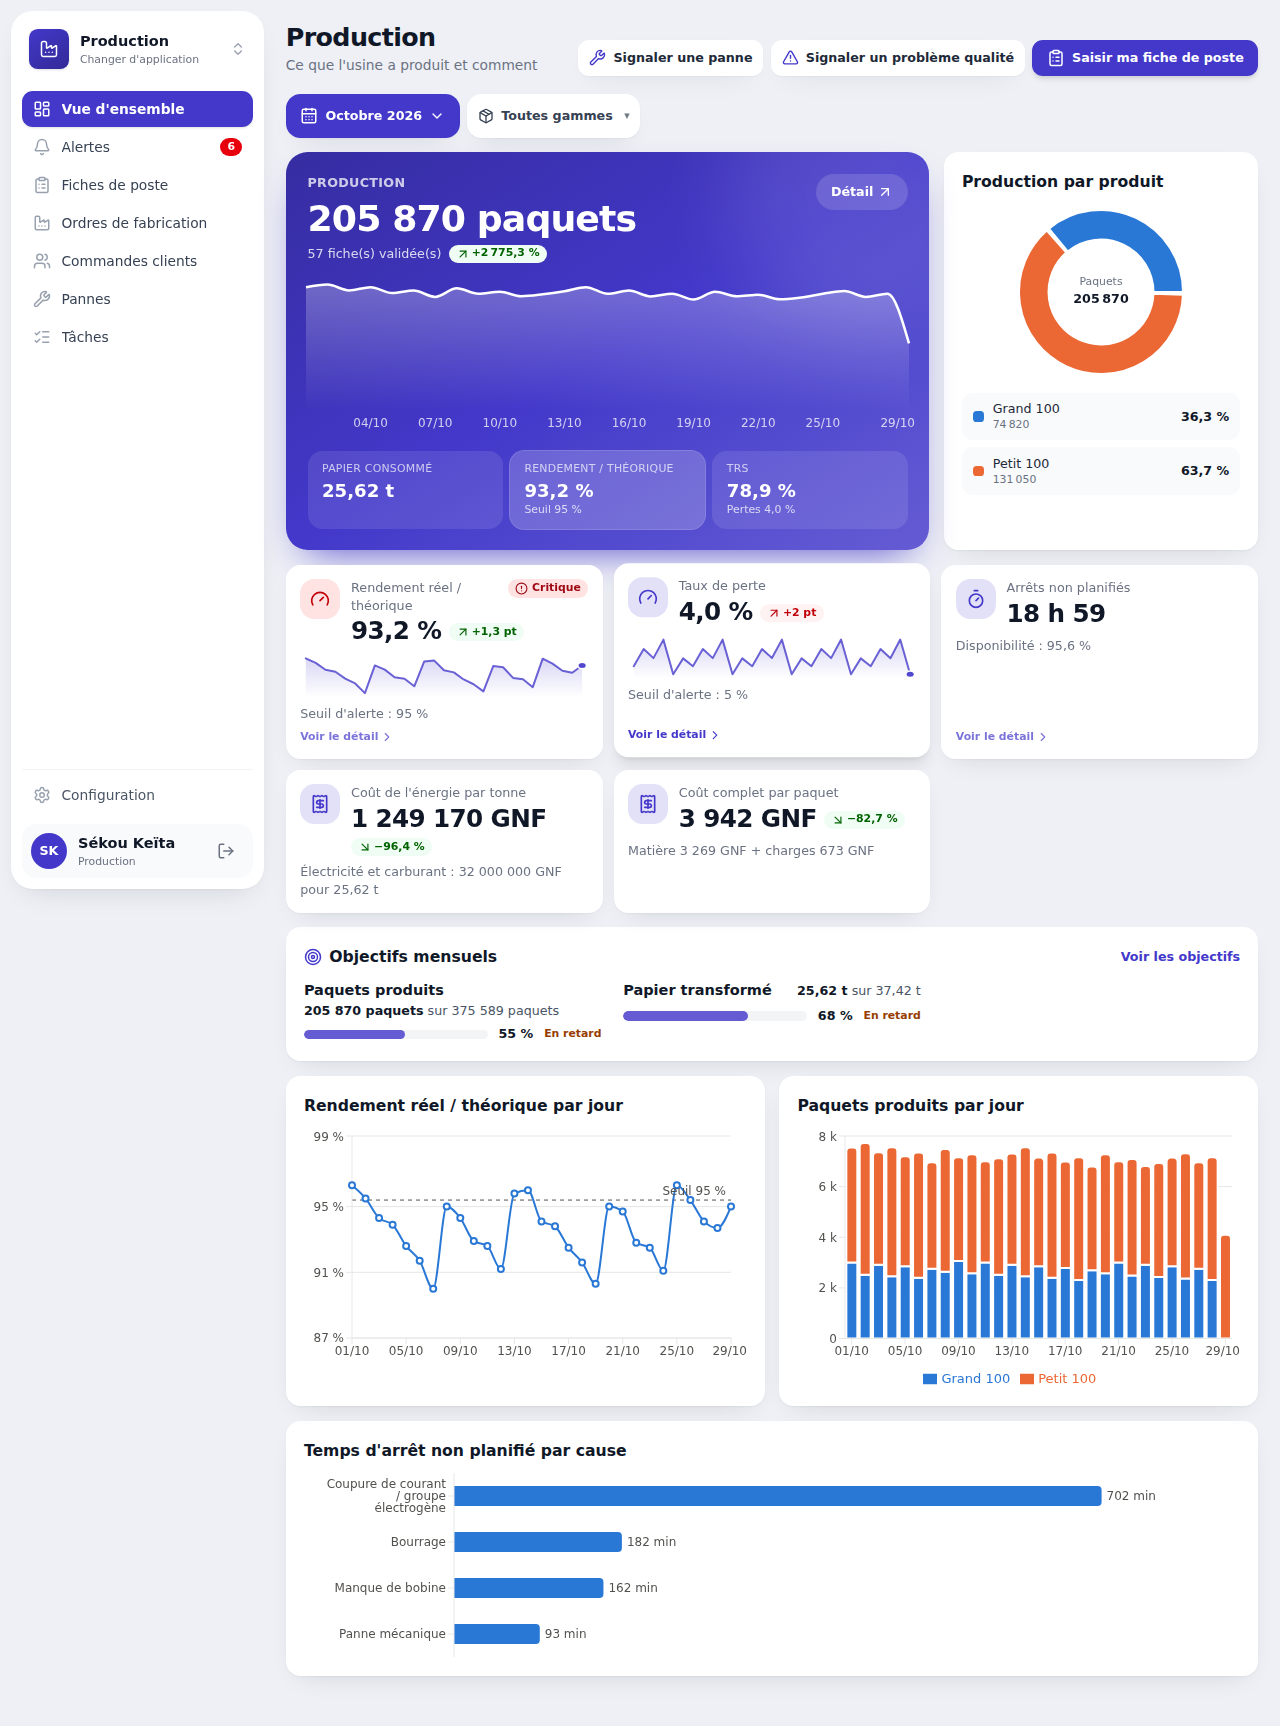
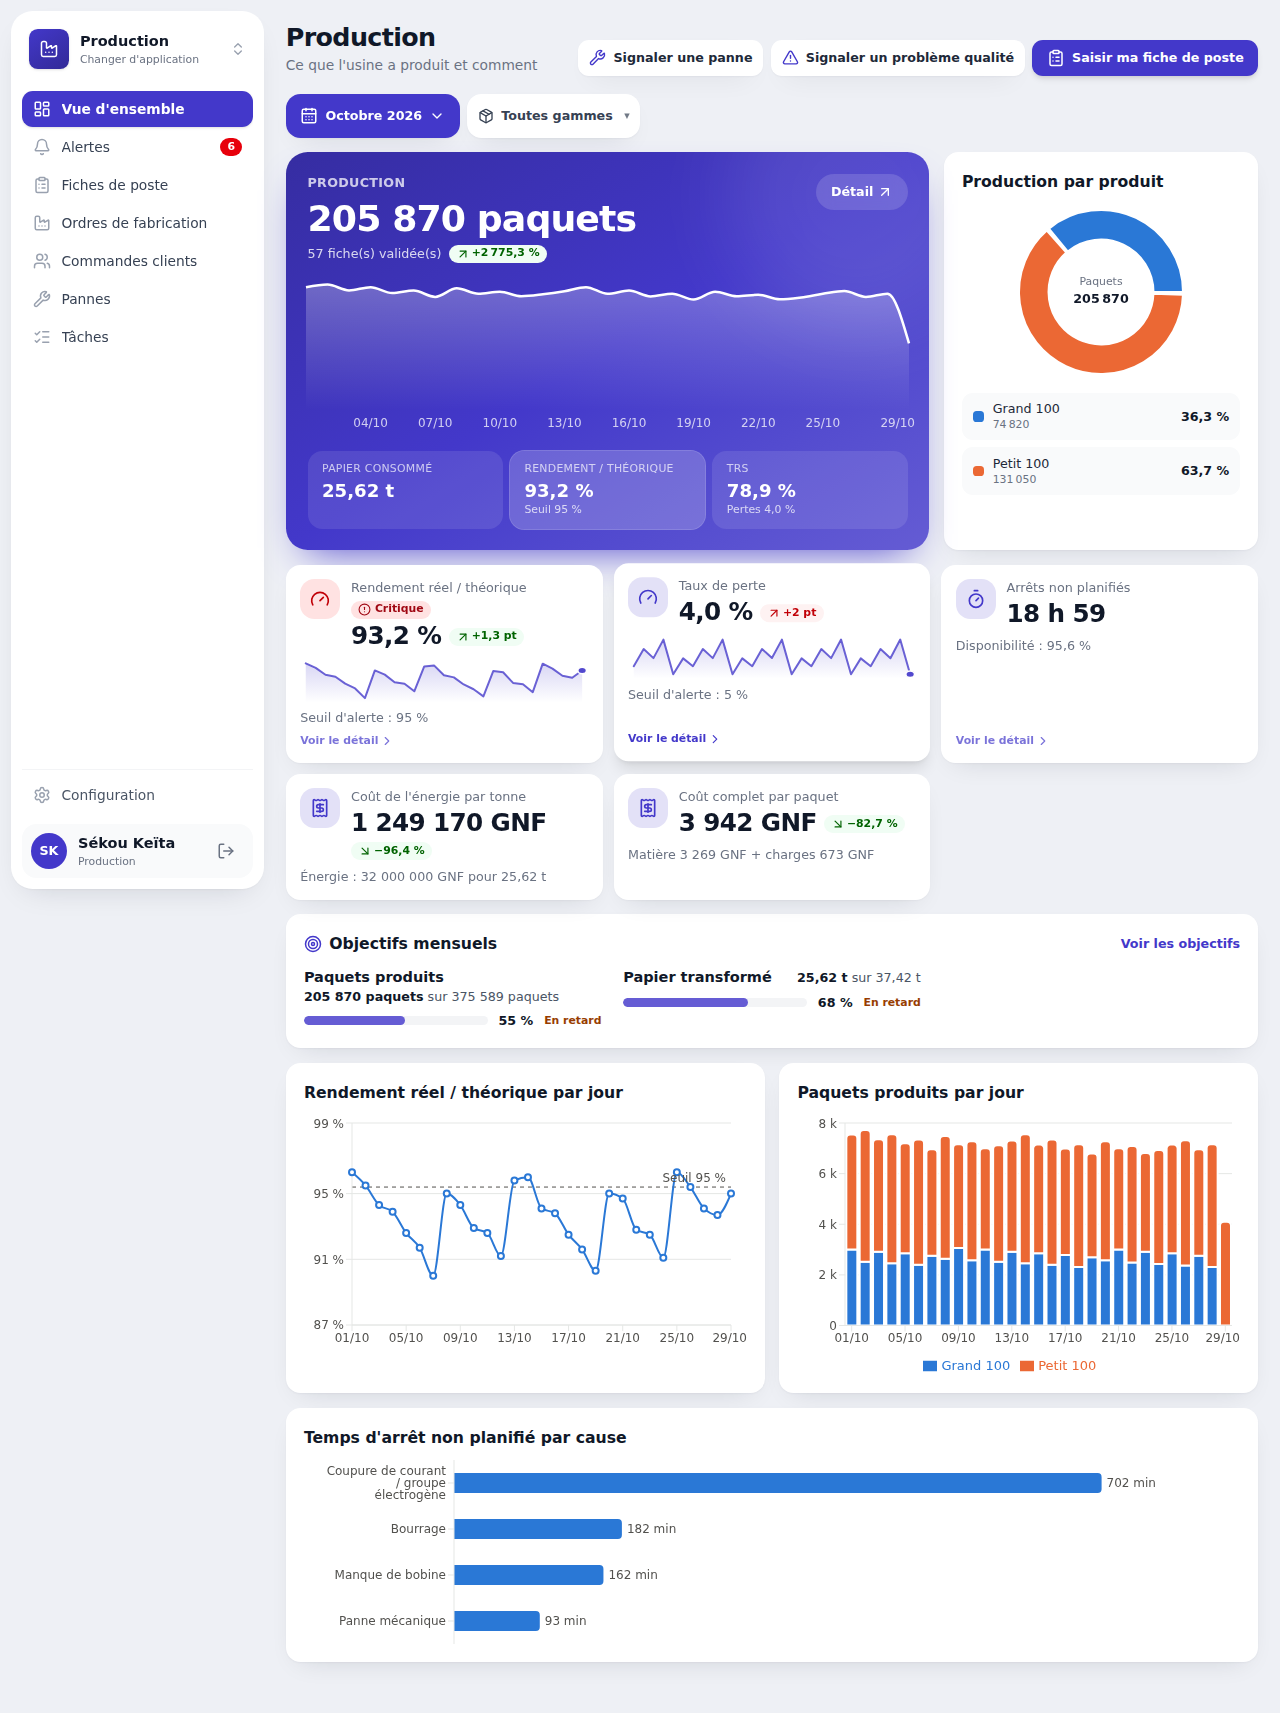
Tableau de bord du PDG : 8 chiffres clés rangés par question (argent, coût du paquet, usine, clients)
- résultat d'exploitation, coût complet par paquet comparé au prix moyen de vente, énergie par tonne, OTIF avec délai moyen ;
- encaissements avec impayés échus, rendement avec pertes, couverture matière, ruptures chez les points de vente ;
- objectifs Direction : résultat, coût complet par paquet, OTIF ; seuil OTIF lu dans les paramètres ;
- tuiles : le titre et le badge (« À surveiller », « Critique ») passent à la ligne au lieu d'être coupés.

Claude-Session: https://claude.ai/code/session_01P9Spb9FtGj4cbry1x5gze5

diff --git a/src/components/direction/sections.tsx b/src/components/direction/sections.tsx
@@ -5,6 +5,8 @@ import { ecartPoints, ecartRelatif, Indicateur, jourCourt } from "@/components/u
 import type { SyntheseDirection } from "@/lib/direction/synthese";
 import { formaterPoids, formaterStockProduitFini, kg, type Paquets } from "@/lib/metier/unites";
 import { bfrGnf } from "@/lib/metier/finance";
+import { margeCompleteParPaquet, type IndicateursLivraison } from "@/lib/metier/performance";
+import type { CoutsUsine } from "@/lib/performance/charger";
 import { minutes, pct } from "@/lib/production/affichage";
 import { gnf, nombre } from "@/lib/stocks/libelles";
 
@@ -24,38 +26,130 @@ function Section({ titre, lien, children }: { titre: string; lien?: string; chil
   );
 }
 
+/** Un groupe de deux chiffres clés, introduit par la question à laquelle il répond. */
+function Question({ titre, children }: { titre: string; children: ReactNode }) {
+  return (
+    <section className="flex flex-col gap-2 break-inside-avoid">
+      <h2 className="text-[0.95rem] font-bold text-gray-800">{titre}</h2>
+      <div className="grid flex-1 gap-3 sm:grid-cols-2">{children}</div>
+    </section>
+  );
+}
+
 /**
- * Les 8 chiffres clés du tableau de bord (ce que le CA, la marge, la trésorerie et la production du haut ne disent pas) :
- * argent qui rentre, retards de paiement, commandes, usine, stock, terrain. Chaque tuile ouvre l'application concernée.
+ * Les 8 chiffres clés du PDG, rangés par question (ce que le CA, la marge, la trésorerie et la production du haut ne disent pas) :
+ * gagne-t-on de l'argent, combien coûte un paquet, l'usine tourne-t-elle bien, les clients sont-ils servis.
+ * Coûts de l'usine et livraisons : toute l'usine (ils ne se découpent ni par gamme ni par commercial).
  */
-export function IndicateursEssentiels({ s }: { s: SyntheseDirection }) {
+export function IndicateursEssentiels({
+  s,
+  couts,
+  coutsPrec,
+  livraison,
+  livraisonPrec,
+  filtre,
+}: {
+  s: SyntheseDirection;
+  couts: CoutsUsine;
+  coutsPrec: CoutsUsine;
+  livraison: IndicateursLivraison;
+  livraisonPrec: IndicateursLivraison;
+  /** Un filtre gamme ou commercial est actif : le résultat (marge filtrée − charges de toute l'usine) n'aurait pas de sens. */
+  filtre: boolean;
+}) {
   const v = s.ventes;
   const vp = s.ventesPrec;
   const p = s.production;
   const pp = s.productionPrec;
-  const pf = s.stock.produitsFinis.reduce((t, x) => t + x.paquets, 0);
+  const resultat = filtre ? null : s.marge.margeGnf - couts.chargesGnf;
+  const resultatPrec = filtre ? null : s.margePrec.margeGnf - coutsPrec.chargesGnf;
+  const coutPaquet = couts.parPaquet?.totalGnf ?? null;
+  const margePaquet = margeCompleteParPaquet(v.prixMoyenPaquetGnf, coutPaquet);
+  const toutes = filtre ? " · toute l'usine" : "";
   return (
-    <div className="mb-4 grid gap-3 sm:grid-cols-2 lg:grid-cols-4">
-      <Indicateur libelle="Encaissements" valeur={gnf(v.encaisseGnf)} variation={{ ecart: ecartRelatif(v.encaisseGnf, vp.encaisseGnf) }} lien="/ventes/encaissements" />
-      <Indicateur libelle="Impayés (échus)" valeur={gnf(v.echuGnf)} detail={`Créances totales : ${gnf(v.creancesGnf)}`} ton={v.echuGnf > 0 ? "alerte" : "normal"} lien="/ventes/impayes" />
-      <Indicateur libelle="Commandes" valeur={nombre(v.nbCommandes)} variation={{ ecart: ecartRelatif(v.nbCommandes, vp.nbCommandes) }} detail={`${nombre(v.paquets)} paquets vendus`} lien="/ventes/commandes" />
-      <Indicateur libelle="Produits finis en stock" valeur={`${nombre(pf)} paquets`} lien="/magasin/articles" />
-      <Indicateur
-        libelle="Rendement réel / théorique"
-        valeur={pct(p.ratioRendement)}
-        variation={{ ecart: ecartPoints(p.ratioRendement, pp.ratioRendement), unite: "points" }}
-        ton={p.ratioRendement !== null && p.ratioRendement < s.seuils.rendementMin ? "danger" : "normal"}
-        lien="/production"
-      />
-      <Indicateur libelle="Pertes" valeur={pct(p.tauxPerte)} variation={{ ecart: ecartPoints(p.tauxPerte, pp.tauxPerte), unite: "points", hausseBonne: false }} ton={(p.tauxPerte ?? 0) > s.seuils.tauxPerteMax ? "danger" : "normal"} lien="/production" />
-      <Indicateur
-        libelle="Matière première"
-        valeur={s.stock.couvertureMpJours === null ? formaterPoids(kg(s.stock.kgMp)) : `${nombre(s.stock.couvertureMpJours, 0)} jours`}
-        detail={`${formaterPoids(kg(s.stock.kgMp))} en stock · ${formaterPoids(kg(s.stock.kgTransit))} en route`}
-        ton={s.stock.couvertureMpJours !== null && s.stock.couvertureMpJours < s.seuils.couvertureJours ? "alerte" : "normal"}
-        lien="/magasin"
-      />
-      <Indicateur libelle="Ruptures chez les points de vente" valeur={pct(s.distribution.tauxRupture)} variation={{ ecart: ecartPoints(s.distribution.tauxRupture, s.distributionPrec.tauxRupture), unite: "points", hausseBonne: false }} detail={`${nombre(s.distribution.pvaActifs)} points de vente`} ton={(s.distribution.tauxRupture ?? 0) > s.seuils.tauxRupture ? "alerte" : "normal"} lien="/commercial" />
+    <div className="mb-4 grid gap-4 lg:grid-cols-2">
+      <Question titre="Gagne-t-on de l'argent ?">
+        <Indicateur
+          libelle="Résultat d'exploitation"
+          valeur={resultat === null ? "—" : gnf(resultat)}
+          variation={{ ecart: ecartRelatif(resultat, resultatPrec) }}
+          detail={filtre ? "Non découpé par gamme ni par commercial" : `Marge ${gnf(s.marge.margeGnf)} − charges ${gnf(couts.chargesGnf)}`}
+          ton={resultat !== null && resultat < 0 ? "alerte" : "normal"}
+          lien="/finance/resultat"
+        />
+        <Indicateur
+          libelle="Encaissements"
+          valeur={gnf(v.encaisseGnf)}
+          variation={{ ecart: ecartRelatif(v.encaisseGnf, vp.encaisseGnf) }}
+          detail={v.echuGnf > 0 ? `Impayés échus : ${gnf(v.echuGnf)} (créances ${gnf(v.creancesGnf)})` : `Aucun impayé échu · créances ${gnf(v.creancesGnf)}`}
+          ton={v.echuGnf > 0 ? "alerte" : "normal"}
+          lien="/ventes/encaissements"
+        />
+      </Question>
+      <Question titre="Combien coûte un paquet ?">
+        <Indicateur
+          libelle="Coût complet par paquet"
+          valeur={coutPaquet === null ? "—" : gnf(coutPaquet)}
+          variation={{ ecart: ecartRelatif(coutPaquet, coutsPrec.parPaquet?.totalGnf ?? null), hausseBonne: false }}
+          detail={
+            margePaquet === null
+              ? coutPaquet === null
+                ? "Pas de production validée sur la période"
+                : "Pas de vente sur la période"
+              : `Vendu ${gnf(v.prixMoyenPaquetGnf)} : ${margePaquet >= 0 ? "gagne" : "perd"} ${gnf(Math.abs(margePaquet))} par paquet${toutes}`
+          }
+          ton={margePaquet !== null && margePaquet < 0 ? "danger" : "normal"}
+          lien="/production"
+        />
+        <Indicateur
+          libelle="Coût de l'énergie par tonne"
+          valeur={couts.energieParTonne === null ? "—" : gnf(couts.energieParTonne)}
+          variation={{ ecart: ecartRelatif(couts.energieParTonne, coutsPrec.energieParTonne), hausseBonne: false }}
+          detail={couts.energieParTonne === null ? "Pas de papier consommé sur la période" : `Énergie ${gnf(couts.energieGnf)} pour ${formaterPoids(kg(couts.papierKg))}`}
+          lien="/production"
+        />
+      </Question>
+      <Question titre="L'usine tourne-t-elle bien ?">
+        <Indicateur
+          libelle="Rendement réel / théorique"
+          valeur={pct(p.ratioRendement)}
+          variation={{ ecart: ecartPoints(p.ratioRendement, pp.ratioRendement), unite: "points" }}
+          detail={`Pertes ${pct(p.tauxPerte)} · ${nombre(p.paquetsBons)} paquets produits`}
+          ton={
+            (p.ratioRendement !== null && p.ratioRendement < s.seuils.rendementMin) || (p.tauxPerte ?? 0) > s.seuils.tauxPerteMax ? "danger" : "normal"
+          }
+          lien="/production"
+        />
+        <Indicateur
+          libelle="Matière première"
+          valeur={s.stock.couvertureMpJours === null ? formaterPoids(kg(s.stock.kgMp)) : `${nombre(s.stock.couvertureMpJours, 0)} jours`}
+          detail={`${formaterPoids(kg(s.stock.kgMp))} en stock · ${formaterPoids(kg(s.stock.kgTransit))} en route`}
+          ton={s.stock.couvertureMpJours !== null && s.stock.couvertureMpJours < s.seuils.couvertureJours ? "alerte" : "normal"}
+          lien="/magasin"
+        />
+      </Question>
+      <Question titre="Les clients sont-ils servis ?">
+        <Indicateur
+          libelle="Livrées à temps et complètes"
+          valeur={pct(livraison.otif)}
+          variation={{ ecart: ecartPoints(livraison.otif, livraisonPrec.otif), unite: "points" }}
+          detail={
+            livraison.commandes
+              ? `${nombre(livraison.otifOk)} sur ${nombre(livraison.commandes)} commande(s)${livraison.delaiMoyenJours === null ? "" : ` · délai moyen ${nombre(livraison.delaiMoyenJours, 1)} j`}${toutes}`
+              : "Aucune commande arrivée à échéance"
+          }
+          ton={livraison.otif !== null && livraison.otif < s.seuils.otifMin ? "alerte" : "normal"}
+          lien="/logistique"
+        />
+        <Indicateur
+          libelle="Ruptures chez les points de vente"
+          valeur={pct(s.distribution.tauxRupture)}
+          variation={{ ecart: ecartPoints(s.distribution.tauxRupture, s.distributionPrec.tauxRupture), unite: "points", hausseBonne: false }}
+          detail={`${nombre(s.distribution.pvaActifs)} points de vente`}
+          ton={(s.distribution.tauxRupture ?? 0) > s.seuils.tauxRupture ? "alerte" : "normal"}
+          lien="/commercial"
+        />
+      </Question>
     </div>
   );
 }

diff --git a/src/app/(app)/direction/page.tsx b/src/app/(app)/direction/page.tsx
@@ -9,6 +9,7 @@ import { BoutonImprimer } from "@/components/ui/bouton-imprimer";
 import { CarteHero } from "@/components/ui/carte-hero";
 import { ecartRelatif, PastilleVariation } from "@/components/ui/indicateur";
 import { chargerSynthese } from "@/lib/direction/synthese";
+import { chargerCoutsUsine, chargerIndicateursLivraison } from "@/lib/performance/charger";
 import { chargerOptionsFiltres, decrireFiltres } from "@/lib/filtres/options";
 import { aujourdhui } from "@/lib/formulaires/dates";
 import { lireFiltresAnalyse, lirePeriode } from "@/lib/formulaires/filtres-analyse";
@@ -18,14 +19,22 @@ import { gnf } from "@/lib/stocks/libelles";
 export const metadata: Metadata = { title: "Tableau de bord" };
 
 /**
- * Tableau de bord de la Direction : l'essentiel de l'usine sur un écran (chiffre d'affaires, 8 chiffres clés,
- * objectifs). Le détail est dans chaque application (liens des tuiles) et dans le rapport de la semaine.
+ * Tableau de bord de la Direction : l'essentiel de l'usine sur un écran (chiffre d'affaires, 8 chiffres clés rangés
+ * par question : argent, coût du paquet, usine, clients ; objectifs). Le détail est dans chaque application (liens des tuiles) et dans le rapport de la semaine.
  */
 export default async function TableauDeBordDirection({ searchParams }: PageProps<"/direction">) {
   const sp = await searchParams;
   const periode = lirePeriode(sp, aujourdhui());
   const filtres = lireFiltresAnalyse(sp);
-  const [s, options] = await Promise.all([chargerSynthese(periode, filtres), chargerOptionsFiltres()]);
+  const [s, options, couts, coutsPrec, livraison, livraisonPrec] = await Promise.all([
+    chargerSynthese(periode, filtres),
+    chargerOptionsFiltres(),
+    chargerCoutsUsine(periode.du, periode.au),
+    chargerCoutsUsine(periode.precedente.du, periode.precedente.au),
+    chargerIndicateursLivraison(periode.du, periode.au),
+    chargerIndicateursLivraison(periode.precedente.du, periode.precedente.au),
+  ]);
+  const filtre = !!(filtres.produit || filtres.commercial);
   const filtresTexte = decrireFiltres(filtres, options);
 
   return (
@@ -64,18 +73,21 @@ export default async function TableauDeBordDirection({ searchParams }: PageProps
           <GraphiqueAnneau donnees={s.ventes.parProduit.map((p) => ({ libelle: p.libelle, valeur: p.caHtGnf }))} format="gnf" libelleTotal="CA HT" />
         </Carte>
       </div>
-      <IndicateursEssentiels s={s} />
+      <IndicateursEssentiels s={s} couts={couts} coutsPrec={coutsPrec} livraison={livraison} livraisonPrec={livraisonPrec} filtre={filtre} />
       <CarteObjectifs
         espace="direction"
         du={periode.du}
         au={periode.au}
-        filtre={!!(filtres.produit || filtres.commercial)}
+        filtre={filtre}
         reels={{
           ca_ttc: s.ventes.caTtcGnf,
           paquets_produits: s.production.paquetsBons,
           papier_kg: s.production.tonnesConsommees * 1000,
           marge_brute: s.marge.margeGnf,
           encaissements: s.ventes.encaisseGnf,
+          resultat: filtre ? null : s.marge.margeGnf - couts.chargesGnf,
+          cout_complet_paquet: couts.parPaquet?.totalGnf ?? null,
+          otif: livraison.otif,
         }}
       />
     </>

diff --git a/src/lib/direction/synthese.ts b/src/lib/direction/synthese.ts
@@ -29,7 +29,7 @@ export interface SyntheseDirection {
   finance: SituationFinanciere;
   rendementParJour: Map<string, number | null>;
   /** Seuils d'alerte réglés par les services (paramètres). */
-  seuils: { rendementMin: number; tauxPerteMax: number; couvertureJours: number; tauxRupture: number; impayeJours: number; impayeCritiqueJours: number; livraisonJours: number };
+  seuils: { rendementMin: number; tauxPerteMax: number; couvertureJours: number; tauxRupture: number; impayeJours: number; impayeCritiqueJours: number; livraisonJours: number; otifMin: number };
 }
 
 /**
@@ -39,7 +39,7 @@ export interface SyntheseDirection {
  */
 export async function chargerSynthese(p: Periode, filtres: FiltresAnalyse = SANS_FILTRE): Promise<SyntheseDirection> {
   const [seuilsLus, production] = await Promise.all([
-    lireSeuils({ alerte_impaye_jours: 30, alerte_impaye_critique_jours: 60, alerte_taux_rupture: 0.15, alerte_livraison_jours: 2, stock_jours_couverture_alerte: 15 }),
+    lireSeuils({ alerte_impaye_jours: 30, alerte_impaye_critique_jours: 60, alerte_taux_rupture: 0.15, alerte_livraison_jours: 2, stock_jours_couverture_alerte: 15, alerte_otif_min: 0.9 }),
     seuilsProduction(),
   ]);
   const seuils = {
@@ -50,6 +50,7 @@ export async function chargerSynthese(p: Periode, filtres: FiltresAnalyse = SANS
     impayeJours: seuilsLus.alerte_impaye_jours,
     impayeCritiqueJours: seuilsLus.alerte_impaye_critique_jours,
     livraisonJours: seuilsLus.alerte_livraison_jours,
+    otifMin: seuilsLus.alerte_otif_min,
   };
   const supabase = await clientServeur();
   const ventesP = chargerIndicateursVentes(p.du, p.au, p.nbJours, filtres);

diff --git a/src/lib/metier/performance.test.ts b/src/lib/metier/performance.test.ts
@@ -1,5 +1,5 @@
 import { describe, expect, it } from "vitest";
-import { coutCompletParPaquet, coutEnergieParTonne, indicateursLivraison } from "./performance";
+import { coutCompletParPaquet, coutEnergieParTonne, indicateursLivraison, margeCompleteParPaquet } from "./performance";
 
 describe("coutEnergieParTonne", () => {
   it("rapporte l'énergie aux tonnes de papier consommées", () => {
@@ -44,5 +44,16 @@ describe("indicateursLivraison (OTIF)", () => {
 
   it("aucune commande à échéance : pas de taux (et non 0 %)", () => {
     expect(indicateursLivraison([])).toEqual({ commandes: 0, otifOk: 0, otif: null, delaiMoyenJours: null, livreesCompletes: 0 });
+  });
+});
+
+describe("margeCompleteParPaquet", () => {
+  it("prix moyen de vente − coût complet, positif ou négatif", () => {
+    expect(margeCompleteParPaquet(2839, 2500)).toBe(339);
+    expect(margeCompleteParPaquet(2839, 3942)).toBe(-1103); // vend en dessous de son coût complet
+  });
+  it("sans vente ou sans production : null", () => {
+    expect(margeCompleteParPaquet(null, 2500)).toBeNull();
+    expect(margeCompleteParPaquet(2839, null)).toBeNull();
   });
 });

diff --git a/src/components/ui/indicateur.tsx b/src/components/ui/indicateur.tsx
@@ -67,7 +67,8 @@ export function Indicateur({
           <IconeIndicateur libelle={libelle} />
         </span>
         <div className="min-w-0 flex-1">
-          <div className="flex items-start justify-between gap-2">
+          {/* Titre et badge passent à la ligne quand la tuile est étroite (le badge n'est jamais coupé). */}
+          <div className="flex flex-wrap items-start justify-between gap-x-2 gap-y-1">
             <div className="text-[0.88rem] font-medium leading-snug text-gray-500">{libelle}</div>
             {ton === "danger" && (
               <span className="inline-flex shrink-0 items-center gap-1 rounded-full bg-red-100 px-2 py-0.5 text-xs font-semibold text-red-800">

diff --git a/src/lib/performance/charger.ts b/src/lib/performance/charger.ts
@@ -9,6 +9,8 @@ import { clientServeur } from "@/lib/supabase/serveur";
 
 export interface CoutsUsine {
   energieGnf: number;
+  /** Charges fixes et variables de la période (factures fournisseurs, hors achats stockés et investissements). */
+  chargesGnf: number;
   papierKg: number;
   paquets: number;
   energieParTonne: number | null;
@@ -24,6 +26,7 @@ export async function chargerCoutsUsine(du: string, au: string): Promise<CoutsUs
   const paquets = n(brut.paquets);
   return {
     energieGnf,
+    chargesGnf: n(brut.charges_gnf),
     papierKg,
     paquets,
     energieParTonne: coutEnergieParTonne(energieGnf, papierKg),

diff --git a/src/lib/metier/performance.ts b/src/lib/metier/performance.ts
@@ -87,3 +87,12 @@ export function indicateursLivraison(commandes: CommandeAEcheance[]): Indicateur
     livreesCompletes,
   };
 }
+
+/**
+ * Ce que rapporte (ou coûte) chaque paquet vendu : prix moyen de vente HT − coût complet par paquet produit.
+ * Négatif = l'usine vend en dessous de son coût complet. Null si l'un des deux manque.
+ */
+export function margeCompleteParPaquet(prixMoyenHtGnf: number | null, coutCompletGnf: number | null): number | null {
+  if (prixMoyenHtGnf === null || coutCompletGnf === null) return null;
+  return Math.round(prixMoyenHtGnf - coutCompletGnf);
+}

diff --git a/src/lib/objectifs/catalogue.ts b/src/lib/objectifs/catalogue.ts
@@ -25,6 +25,9 @@ export const OBJECTIFS: Record<string, DefinitionObjectif[]> = {
     d("papier_kg", "Papier transformé", "kg", true),
     d("marge_brute", "Marge brute", "gnf", true),
     d("encaissements", "Encaissements", "gnf", true),
+    d("resultat", "Résultat d'exploitation", "gnf", true),
+    d("cout_complet_paquet", "Coût complet par paquet (maximum)", "gnf", false, false),
+    d("otif", "Commandes livrées à temps et complètes (OTIF)", "pct", false),
   ],
   ventes: [
     d("ca_ttc", "Chiffre d'affaires TTC", "gnf", true),

diff --git a/CLAUDE.md b/CLAUDE.md
@@ -378,6 +378,10 @@ Source : **business plan** (`Projet_Papel_Business_Plan.xlsx`, oct. 2026) — pr
 - **OTIF** = commandes arrivées à échéance sur la période (date + `delai_livraison_promis_jours`, jusqu'à aujourd'hui) dont tous les paquets
   ont été remis au client (livrés − rapportés) au plus tard à la date promise ; **délai commande → livraison** = jusqu'à la remise qui complète
   la commande. Seuil `alerte_otif_min` (90 %). Tuiles et objectifs : Logistique. Sans donnée : « — », jamais 0.
+- **Tableau de bord du PDG** (`IndicateursEssentiels`) : 8 chiffres clés rangés par question, deux par question — « Gagne-t-on de l'argent ? »
+  (résultat d'exploitation = marge − charges, non calculé si un filtre est actif ; encaissements + impayés échus), « Combien coûte un paquet ? »
+  (coût complet comparé au prix moyen de vente, `margeCompleteParPaquet` ; énergie par tonne), « L'usine tourne-t-elle bien ? » (rendement +
+  pertes ; couverture matière), « Les clients sont-ils servis ? » (OTIF + délai ; ruptures chez les PVA).
 
 ## 7. Seuils d'alerte (paramétrables)
 
